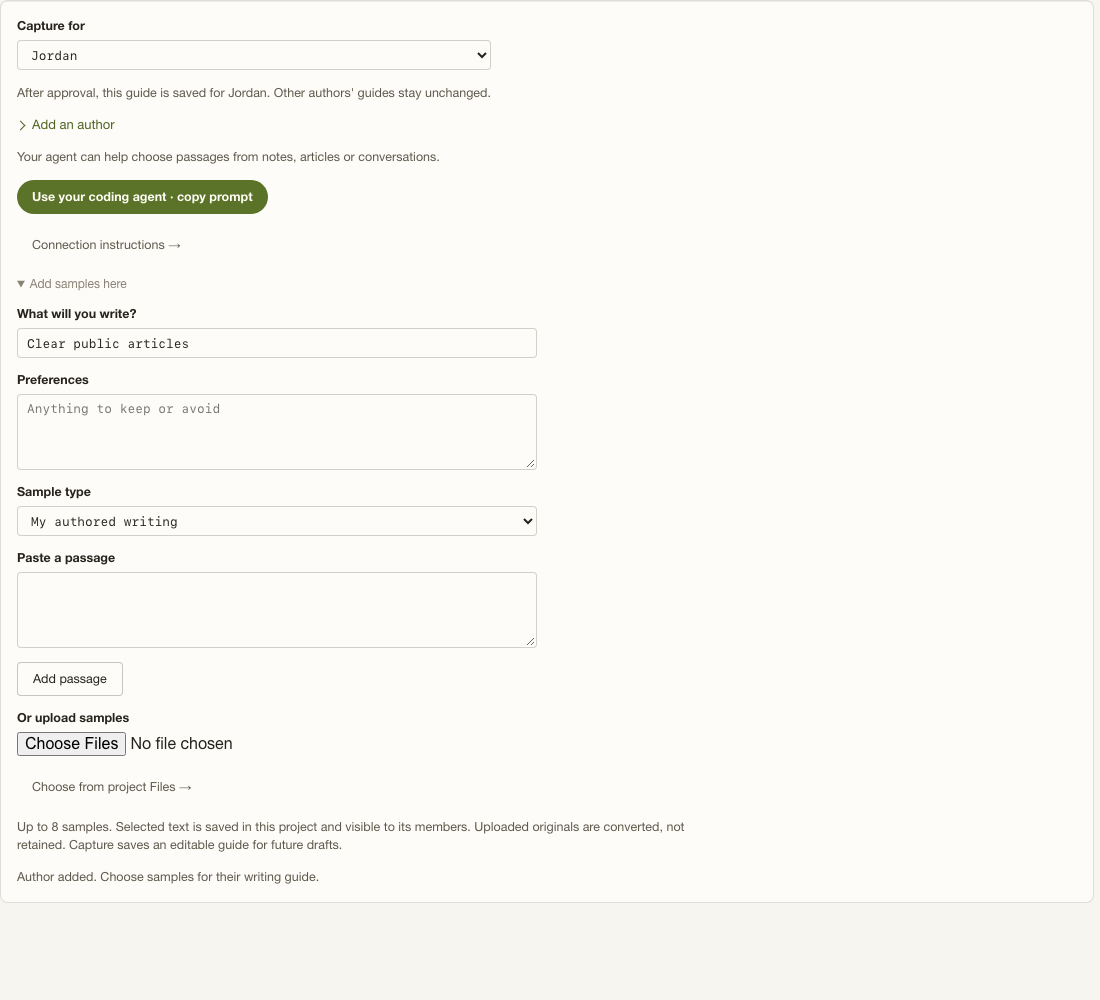
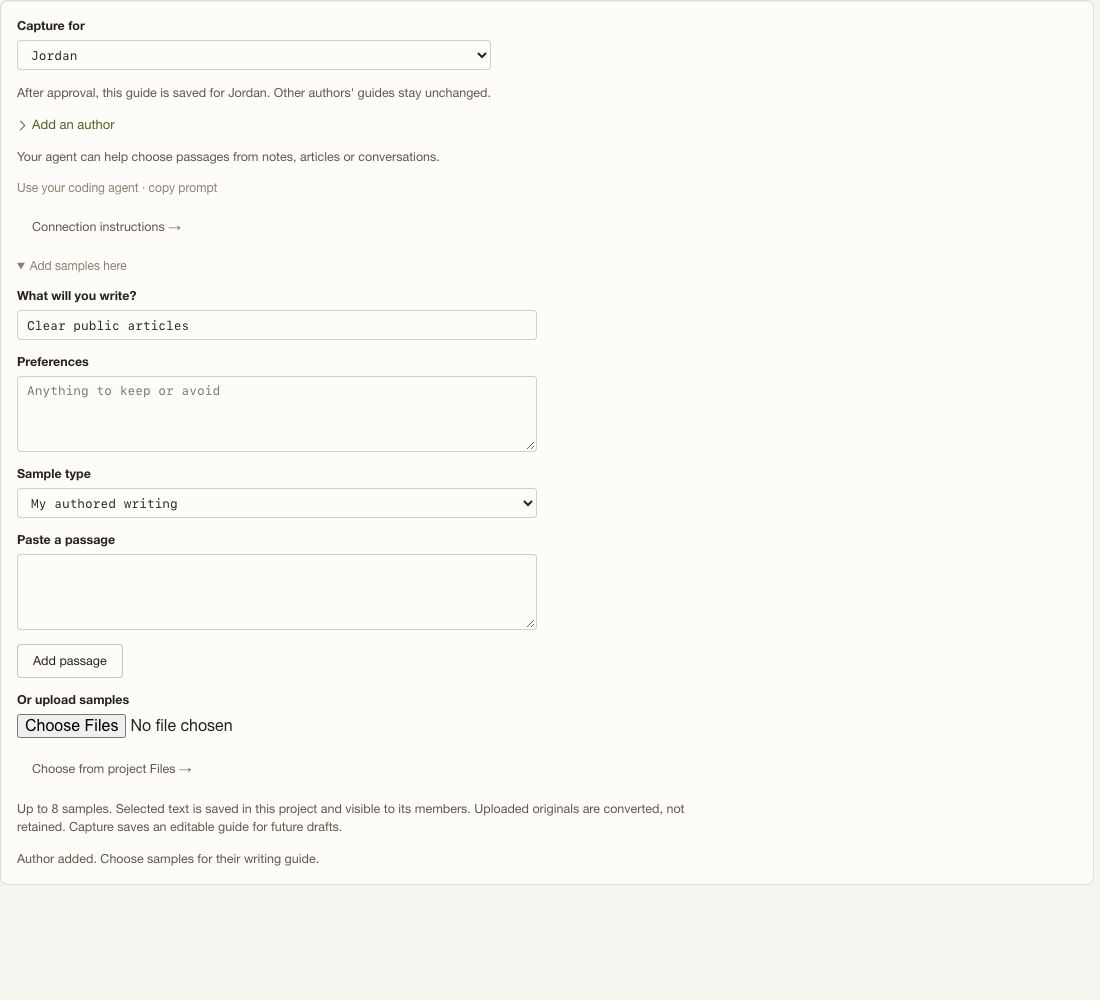
Keep the coding agent handoff a quiet text action

diff --git a/src/tin_lite/static/style-capture.js b/src/tin_lite/static/style-capture.js
@@ -20,7 +20,7 @@
         </div></details>
       </div>` : ""}
       <p class="system-config-note">Your agent can help choose passages from notes, articles or conversations.</p>
-      <button class="button" type="button" data-style-agent>Use your coding agent · copy prompt</button>
+      <button class="system-quiet-action" type="button" data-style-agent>Use your coding agent · copy prompt</button>
       <button class="button-quiet" type="button" data-style-connect>Connection instructions →</button>
       <details data-style-samples><summary class="system-quiet-action">Add samples here</summary>
         <label class="system-setting"><strong>What will you write?</strong><input class="workflow-inline-input" data-style-purpose maxlength="500"></label>
